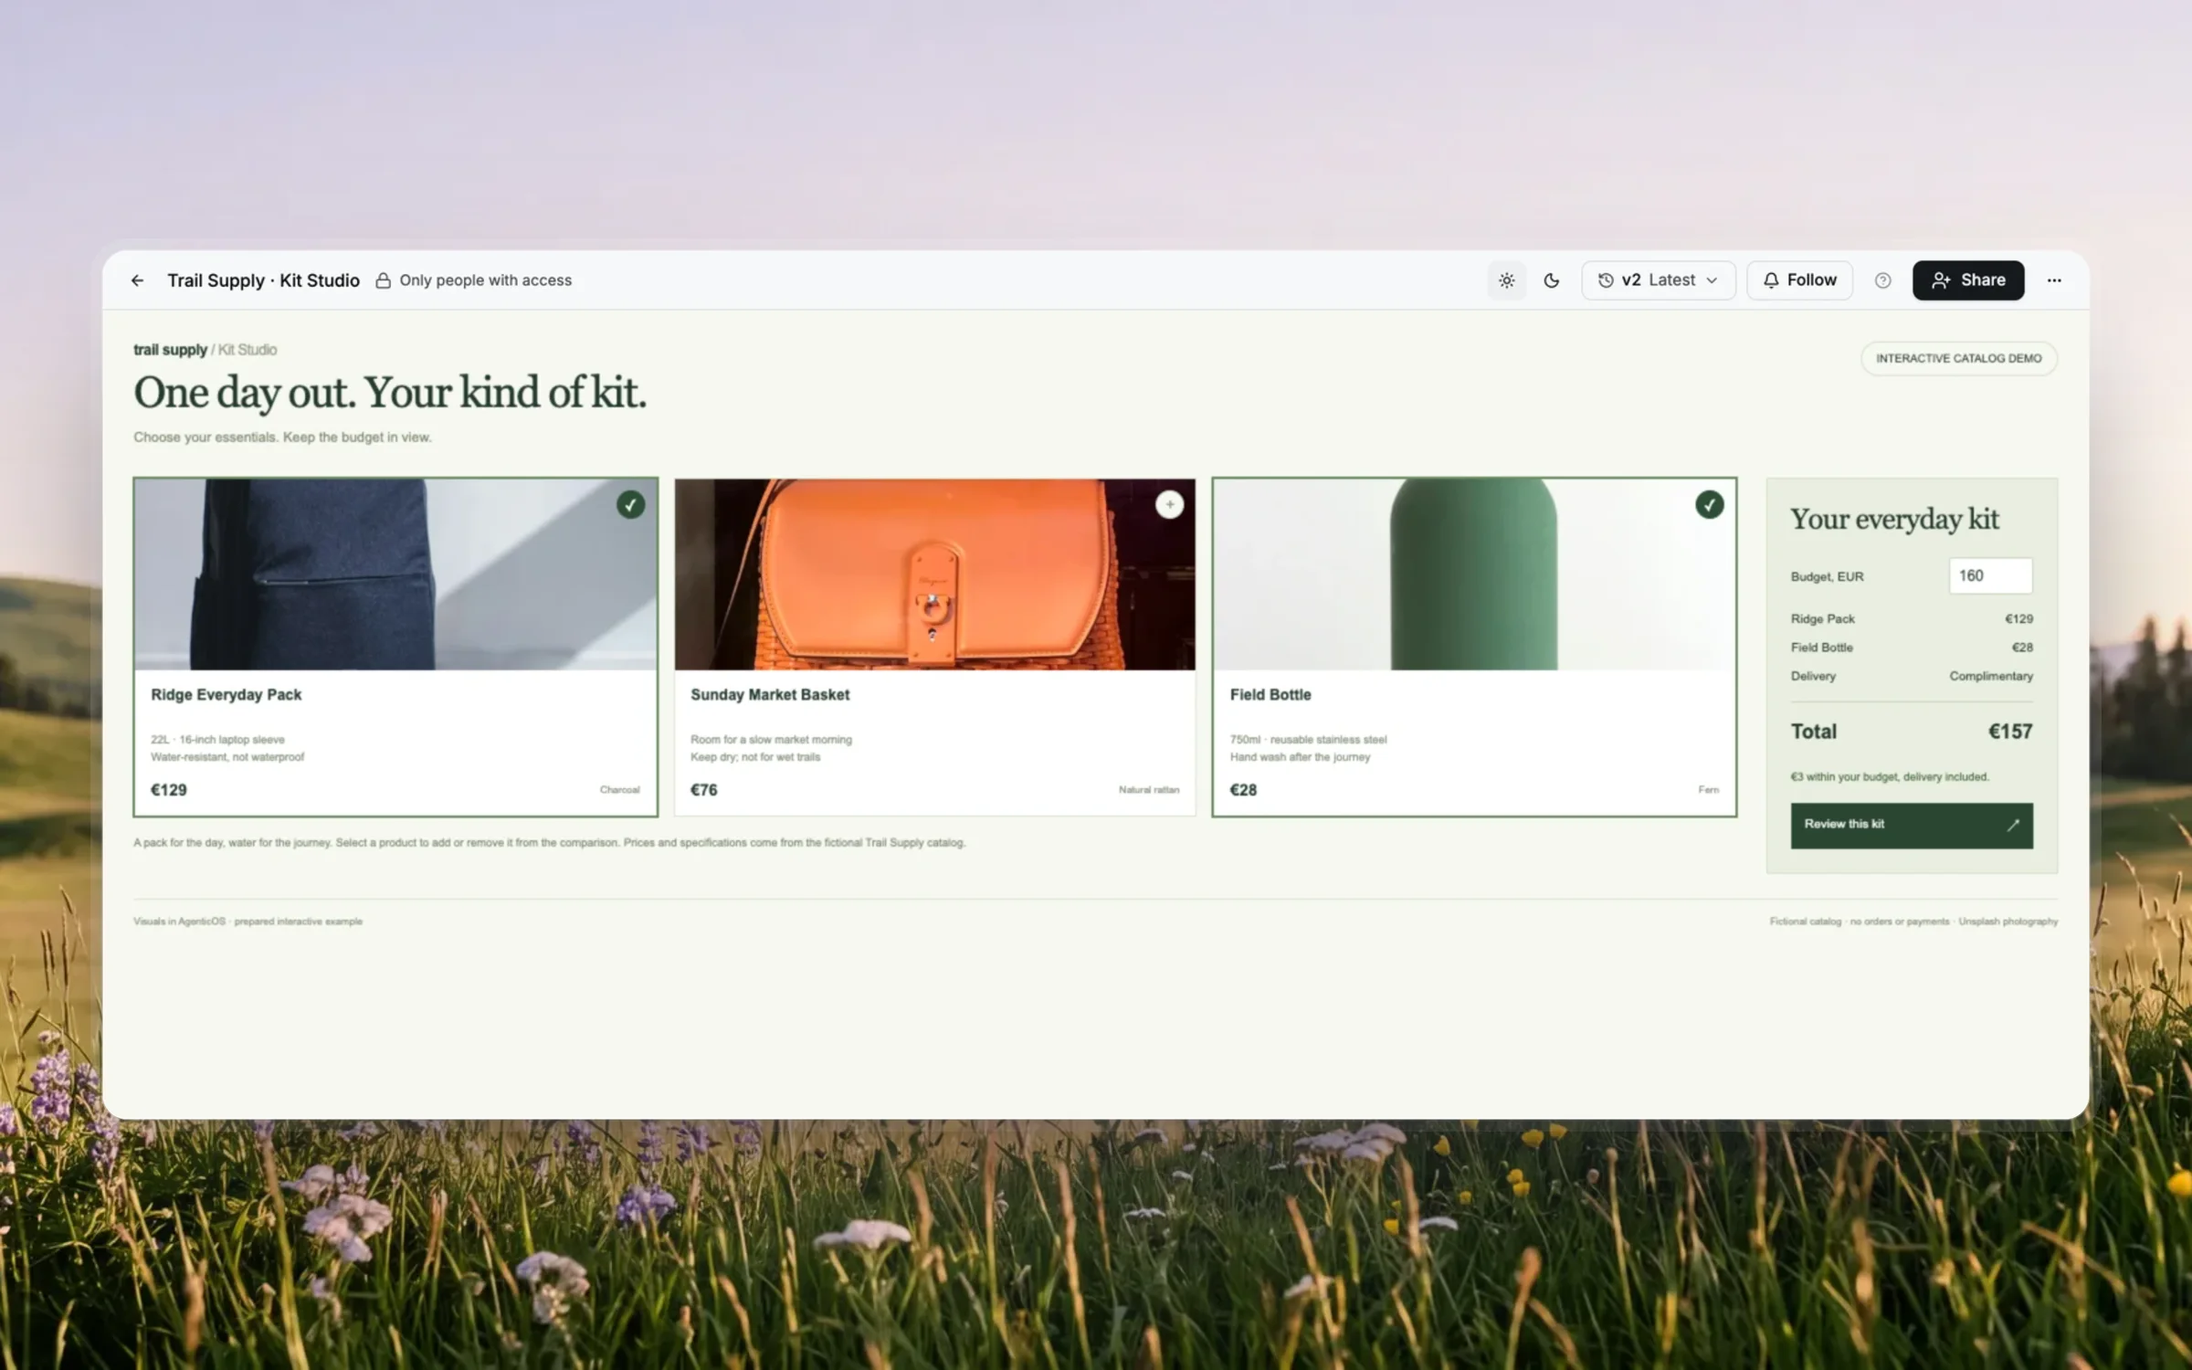
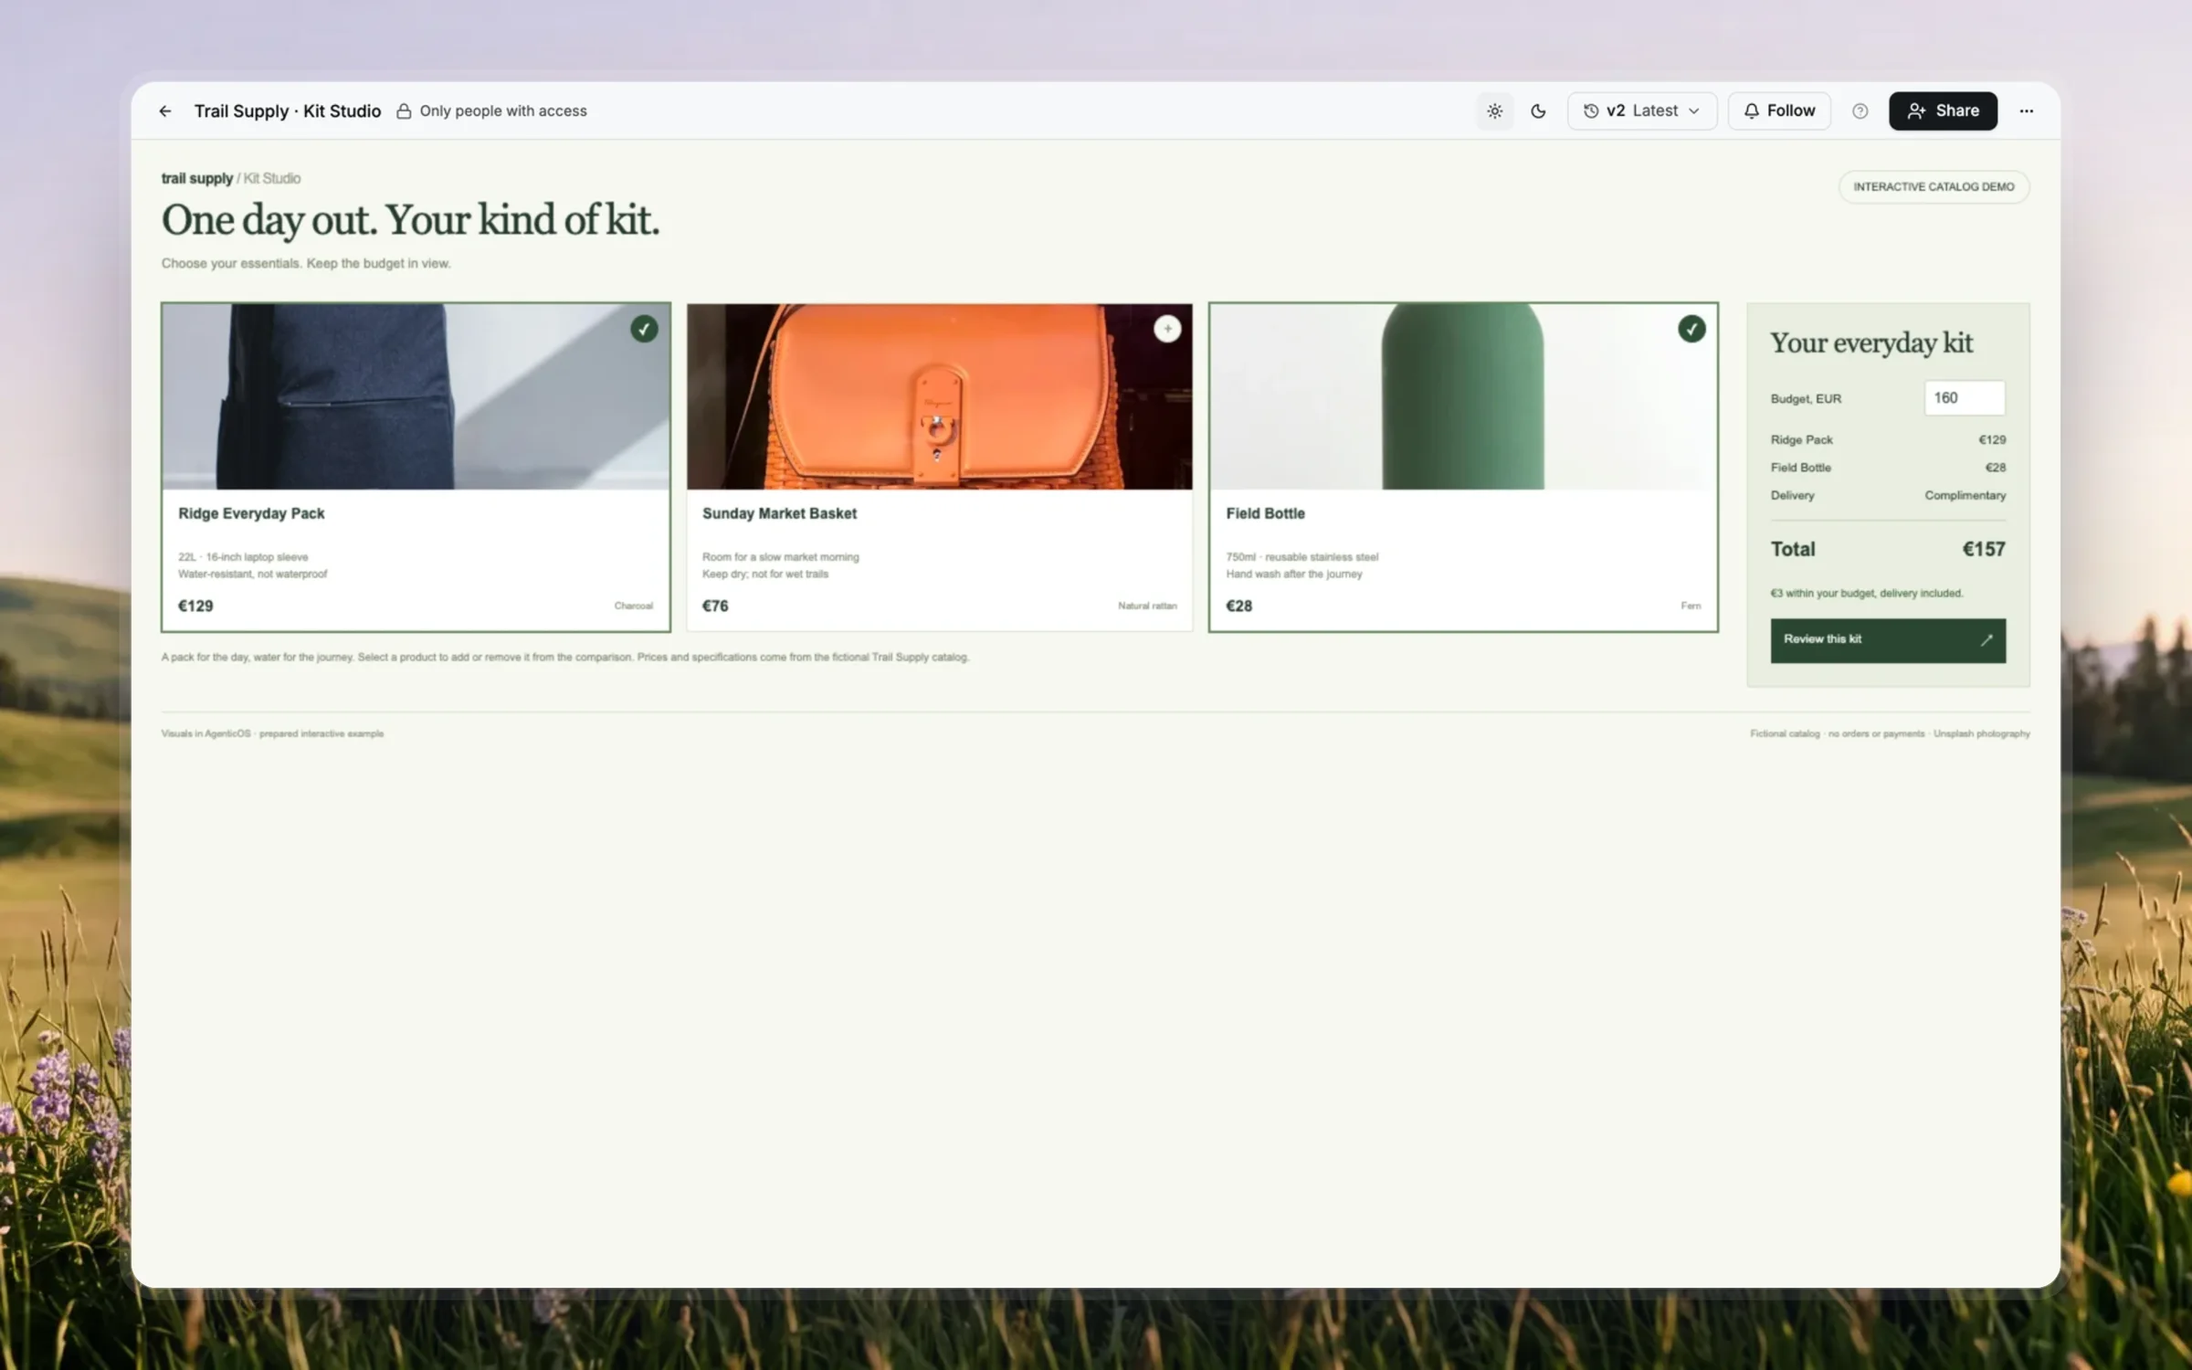
Show industrial Apps and preserve complete application screenshots

diff --git a/src/components/hero.tsx b/src/components/hero.tsx
@@ -1,6 +1,6 @@
 "use client";
 
-import { ArrowRight, LayoutGrid } from "lucide-react";
+import { ArrowRight } from "lucide-react";
 import { motion, useScroll, useTransform } from "motion/react";
 import { useReducedMotion } from "@/lib/use-reduced-motion";
 import { useRef } from "react";
@@ -123,7 +123,7 @@ export function Hero() {
         />
       </motion.div>
 
-      <div className="relative z-10 mx-auto flex max-w-[1240px] flex-col items-center px-5 pt-[128px] text-center md:px-8 md:pt-[184px]">
+      <div className="relative z-30 mx-auto flex max-w-[1240px] flex-col items-center px-5 pt-[128px] text-center md:px-8 md:pt-[184px]">
         <motion.div
           style={{ opacity: copyOpacity, y: copyY }}
           className="flex flex-col items-center"
@@ -261,65 +261,6 @@ export function Hero() {
               </span>
             </div>
 
-            {/* Editorial callouts from the prepared Trail Supply demo, not live run status. */}
-            <motion.div
-              aria-hidden
-              initial={reduce ? false : { opacity: 0, x: -24 }}
-              animate={{ opacity: 1, x: 0 }}
-              transition={{ duration: 0.8, delay: 1.6, ease: EASE }}
-              className="absolute -left-[72px] top-[18%] z-10 hidden w-[300px] xl:block"
-            >
-              <div className="animate-[bob_6s_ease-in-out_infinite] rounded-[16px] bg-white/90 p-3.5 text-left shadow-[0_24px_60px_-20px_rgba(20,14,48,0.65)] ring-1 ring-white backdrop-blur-md">
-                <div className="flex items-start gap-2.5">
-                  <BlobAgent color="#f5cdb6" size={26} hop={false} />
-                  <div className="min-w-0">
-                    <p className="text-[12.5px] font-semibold leading-snug text-ink">
-                      A brief in the shared chat
-                    </p>
-                    <p className="text-[11.5px] leading-relaxed text-muted">
-                      Build a shopping assistant for Trail Supply.
-                    </p>
-                  </div>
-                </div>
-                <div className="mt-3 flex gap-1.5">
-                  <span className="inline-flex h-7 items-center gap-1 rounded-full bg-ink px-3 text-[11.5px] font-medium text-white">
-                    Shared context
-                  </span>
-                  <span className="inline-flex h-7 items-center rounded-full px-3 text-[11.5px] font-medium text-ink-soft ring-1 ring-line">
-                    Visuals
-                  </span>
-                </div>
-              </div>
-            </motion.div>
-            <motion.div
-              aria-hidden
-              initial={reduce ? false : { opacity: 0, x: 24 }}
-              animate={{ opacity: 1, x: 0 }}
-              transition={{ duration: 0.8, delay: 1.85, ease: EASE }}
-              className="absolute -right-[170px] top-[42%] z-10 hidden w-[156px] 2xl:block"
-            >
-              <div className="animate-[bob_7s_ease-in-out_-2s_infinite] rounded-[16px] bg-white/90 p-3.5 text-left shadow-[0_24px_60px_-20px_rgba(20,14,48,0.65)] ring-1 ring-white backdrop-blur-md">
-                <div className="flex items-center gap-2.5">
-                  <span className="inline-flex size-8 items-center justify-center rounded-[10px] bg-[#eef0ff] text-[#5b5bd6]">
-                    <LayoutGrid className="size-4" />
-                  </span>
-                  <div className="min-w-0">
-                    <p className="text-[12.5px] font-semibold leading-snug text-ink">
-                      Trail Supply · Kit Studio
-                    </p>
-                    <p className="text-[11.5px] text-muted">
-                      Prepared demo app · saved from chat
-                    </p>
-                  </div>
-                </div>
-                <div className="mt-3 grid grid-cols-3 gap-1.5" aria-hidden>
-                  {["backpack", "basket", "bottle"].map((product) => (
-                    <img key={product} src={asset(`/screens/trail-supply/assets/${product}.webp`)} alt="" width={64} height={64} className="aspect-square w-full rounded-lg object-cover" loading="lazy" />
-                  ))}
-                </div>
-              </div>
-            </motion.div>
-
             <div
               aria-hidden
               className="pointer-events-none absolute -inset-x-10 -top-16 h-56 rounded-full bg-blob/30 blur-[70px]"
@@ -340,12 +281,6 @@ export function Hero() {
                 </span>
               )}
               <picture>
-                <source
-                  media="(max-width: 639px)"
-                  srcSet={assetSet("/screens/hero-chat-mobile.webp")}
-                  width={1060}
-                  height={900}
-                />
                 <img
                   src={asset("/screens/hero-chat.webp")}
                   alt="AgenticOS chat with a populated list of specialist agents and an interactive Trail Supply kit planner. Prepared conversation and fictional catalog, shown in the real Visuals renderer."

diff --git a/src/content.ts b/src/content.ts
@@ -116,7 +116,6 @@ export interface Showcase {
   height: number;
   icon: "users" | "globe" | "flask" | "layout";
   /** A capture from the console's phone layout, shown instead of `image` on narrow screens. */
-  phoneImage?: string;
   more: { label: string; href: string };
 }
 
@@ -127,7 +126,6 @@ export const showcase: readonly Showcase[] = [
     title: "Agents that work as a team",
     body: "A lead agent hands parts of a task to colleagues and writes up what they found. You see who it asked, and what each one said.",
     image: "/screens/highlight-subagents.webp",
-    phoneImage: "/screens/phone-team.webp",
     alt: "A Chief of Staff agent’s pricing review brief, written from what Sales Researcher and Finance Analyst answered: Ramp and Bill.com pricing in dollars and three bullets for the meeting",
     width: 2400,
     height: 1500,
@@ -168,10 +166,9 @@ export const showcase: readonly Showcase[] = [
     id: "apps",
     tab: "Apps",
     title: "Apps, not just answers",
-    body: "Keep a dashboard, calculator or knowledge map as an app with a stable link and versions. This seeded LLM wiki example lets you explore fictional source notes; it is not a live RAG query.",
+    body: "Keep useful tools as Apps with stable links and versions. Northline combines a supplier map, delivery exceptions and assembly windows; its delay simulation uses fictional data without an ERP or carrier connection.",
     image: "/screens/highlight-app.webp",
-    phoneImage: "/screens/phone-app.webp",
-    alt: "Company Brain, a seeded LLM wiki example saved as an app: an interactive map of six fictional source notes and a source preview",
+    alt: "Northline supply and production App with a European supplier map, delivery exceptions and assembly windows",
     width: 2400,
     height: 1500,
     icon: "layout",
@@ -195,7 +192,7 @@ export const showcase: readonly Showcase[] = [
     title: "Give the work a shared structure",
     body: "Typed records give people, agents and workflows somewhere to read and write structured work. This fictional pipeline shows stages, fit scores and next actions, with table and kanban views.",
     image: "/screens/highlight-tables.webp",
-    alt: "Virtual Tables displaying a fictional sales pipeline with typed fields, coloured stages and next actions",
+    alt: "The complete AgenticOS window showing a fictional sales pipeline as a Kanban board",
     width: 2400,
     height: 1500,
     icon: "layout",

diff --git a/src/components/control.tsx b/src/components/control.tsx
@@ -27,15 +27,15 @@ function ScreenCard({
           {body}
         </p>
       </div>
-      {/* The screen runs off the card's right and bottom edges: a window into the console, not a thumbnail. */}
-      <div className="ml-7 mt-7 flex-1 overflow-hidden rounded-tl-[14px] bg-[#f3f4f6] shadow-[0_0_0_1px_var(--color-line),0_20px_50px_-24px_rgba(22,20,31,0.35)] [mask-composite:intersect] [mask-image:linear-gradient(90deg,#000_72%,transparent),linear-gradient(180deg,#000_70%,transparent)] md:ml-8">
+      {/* Preserve the entire console window, without edge fades or enlarged crops. */}
+      <div className="mx-7 mb-7 mt-7 overflow-hidden rounded-[14px] bg-[#f3f4f6] ring-1 ring-line md:mx-8 md:mb-8">
         <img
           src={asset(src)}
           alt={alt}
           loading="lazy"
-          width={1336}
-          height={760}
-          className="aspect-[1336/640] w-[118%] max-w-none object-cover object-left-top"
+          width={1600}
+          height={1000}
+          className="aspect-[16/10] w-full object-contain"
         />
       </div>
     </article>
@@ -56,7 +56,7 @@ export function Control() {
         <div className="rail sm:grid mt-14 gap-4 lg:grid-cols-2 lg:gap-5">
           <Reveal>
             <ScreenCard
-              src="/screens/crop-approvals.webp"
+              src="/screens/approvals.webp"
               alt="Approval decisions and history, showing which requests were approved, rejected or expired in a demo organization"
               title="A person decides what matters"
               body="Sensitive tools wait for approval. The run pauses, the request lands here, and the decision is recorded with who made it."
@@ -64,7 +64,7 @@ export function Control() {
           </Reveal>
           <Reveal delay={0.08}>
             <ScreenCard
-              src="/screens/crop-spend.webp"
+              src="/screens/spend.webp"
               alt="Spend over time and where the money went, by agent, with each agent’s share of the monthly budget"
               title="Spend you can see before it happens"
               body="Monthly budgets per agent and organization are checked before each model request, and every run records its tokens and cost."

diff --git a/src/components/showcase.tsx b/src/components/showcase.tsx
@@ -205,7 +205,7 @@ export function Showcase() {
               </div>
 
               <div className="rounded-[14px] bg-white/15 p-1 shadow-[0_30px_80px_-30px_rgba(15,10,40,0.85)] ring-1 ring-white/30 backdrop-blur-sm md:rounded-[18px] md:p-1.5">
-                <div className="relative aspect-[4/5] overflow-hidden rounded-[10px] bg-white sm:aspect-[16/10] md:rounded-[13px]">
+                <div className="relative aspect-[16/10] overflow-hidden rounded-[10px] bg-white sm:aspect-[16/10] md:rounded-[13px]">
                   {showcase.map((entry, index) => (
                     <motion.picture
                       key={entry.id}
@@ -218,20 +218,13 @@ export function Showcase() {
                       transition={{ duration: 0.55, ease: [0.22, 1, 0.36, 1] }}
                       className="absolute inset-0"
                     >
-                      {/* A phone gets the console's own phone layout where there is one: a desktop capture shrunk to 390 px is unreadable. */}
-                      {entry.phoneImage ? (
-                        <source
-                          media="(max-width: 639px)"
-                          srcSet={asset(entry.phoneImage)}
-                        />
-                      ) : null}
                       <img
                         src={asset(entry.image)}
                         alt={index === active ? entry.alt : ""}
                         width={entry.width}
                         height={entry.height}
                         loading={index === 0 ? "eager" : "lazy"}
-                        className={`size-full object-cover ${entry.phoneImage ? "object-top" : "object-[58%_0%]"} sm:object-top`}
+                        className="size-full object-contain"
                       />
                     </motion.picture>
                   ))}

diff --git a/src/compare.ts b/src/compare.ts
@@ -47,17 +47,17 @@ const guide = (name: string) => `${DOCS}/about/${name}/`;
 
 export const SCREENS = {
   approvals: {
-    src: "/screens/crop-approvals.webp",
-    width: 1336,
-    height: 760,
+    src: "/screens/approvals.webp",
+    width: 1600,
+    height: 1000,
     alt: "The Approvals tab of the Activity page, with approved, rejected and expired example requests and their decision history.",
     caption:
       "Approval requests and their recorded decisions stay in one place.",
   },
   spend: {
-    src: "/screens/crop-spend.webp",
-    width: 1336,
-    height: 760,
+    src: "/screens/spend.webp",
+    width: 1600,
+    height: 1000,
     alt: "The Spend tab of the Activity page: spend in the window, month to date, cost per run, the agent spending the most and a bar chart of spend per day.",
     caption: "What every agent spent, in your provider's currency, day by day.",
   },
@@ -80,9 +80,9 @@ export const SCREENS = {
     src: "/screens/highlight-app.webp",
     width: 2400,
     height: 1500,
-    alt: "Company Brain, a seeded LLM wiki app with six fictional source notes, a knowledge map and source preview.",
+    alt: "Northline supply and production App with a European supplier map, delivery exceptions and assembly windows.",
     caption:
-      "A seeded interactive knowledge map saved as an app. It illustrates the interface, not a live RAG query.",
+      "A prepared supply and production planning App with fictional shipments; no ERP or carrier is connected.",
   },
 } as const satisfies Record<string, Screen>;
 

diff --git a/src/use-case-guides.ts b/src/use-case-guides.ts
@@ -29,10 +29,10 @@ export const useCaseGuides: readonly UseCaseGuide[] = [
     emphasis: "a useful answer.",
     description:
       "Build a company knowledge assistant with AgenticOS. Use RAG for document retrieval and a Project for maintained wiki notes, sources and shared instructions.",
-    image: "/screens/highlight-app.webp",
-    alt: "Company Brain demo app showing linked knowledge notes and a source preview",
+    image: "/screens/knowledge-collection.webp",
+    alt: "The complete AgenticOS knowledge collection screen with fictional Northwind documents",
     caption:
-      "Company Brain is an interactive app with fictional notes and prepared answers. This preview does not perform retrieval or demonstrate a successful RAG run.",
+      "The current knowledge collection screen uses fictional Northwind documents. It shows where sources are managed; it does not establish retrieval quality or a successful model answer.",
     input:
       "A small handbook or research collection, a question it answers and a question it cannot answer.",
     result:

diff --git a/src/components/comparison-story.tsx b/src/components/comparison-story.tsx
@@ -97,7 +97,7 @@ export function ProductComparisonHero({ item }: { item: Comparison }) {
               Apache-2.0 · self-hosted · built on Pydantic AI
             </p>
           </div>
-          <figure className="relative min-w-0 lg:-mr-36">
+          <figure className="relative min-w-0">
             <div className="overflow-hidden rounded-[18px] bg-white shadow-[0_40px_100px_-25px_rgba(0,0,0,0.45)] ring-[6px] ring-white/20 md:rounded-[22px]">
               <div className="flex items-center gap-2 border-b border-line bg-white px-4 py-3">
                 <LogoMark className="size-5" />

diff --git a/README.md b/README.md
@@ -195,9 +195,8 @@ suspension and reduced motion. It writes screenshots and a compact JSON result.
 
 ### Hero product capture
 
-The hero now uses a raw chat capture from the AgenticOS Northwind Labs demo, not
-a framed dashboard image. `public/screens/hero-chat.webp` preserves the full
-1600 × 1000 console; the mobile variant crops the conversation at x=540, y=100,
-width=1060, height=900. The prepared conversation and fictional Trail Supply
-catalog are disclosed beside the image. Editorial callouts describe the brief
-and saved Kit Studio App; they are not live status or interactive product controls.
+The hero uses the complete current-console chat capture, including navigation.
+The same complete image is used on mobile; it is never replaced with a cropped
+conversation. Foreground scenery and callouts do not cover the application window.
+The caption identifies the prepared conversation and fictional data. Product
+screens in the shared showcase and control sections also use contain sizing.
